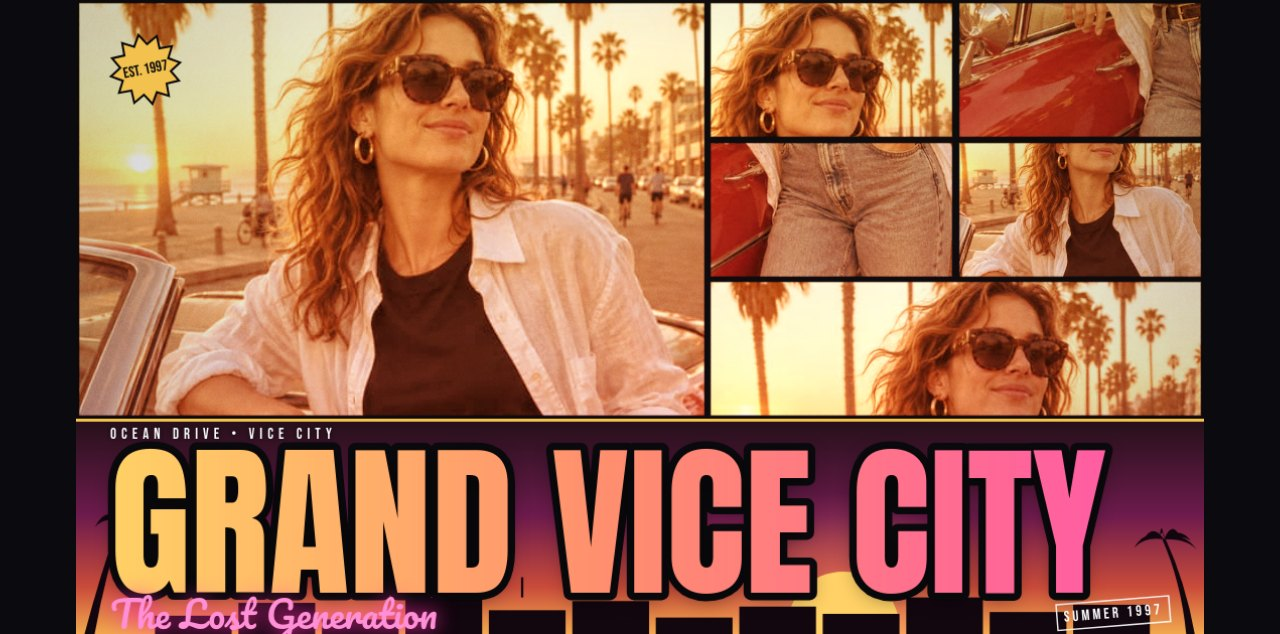
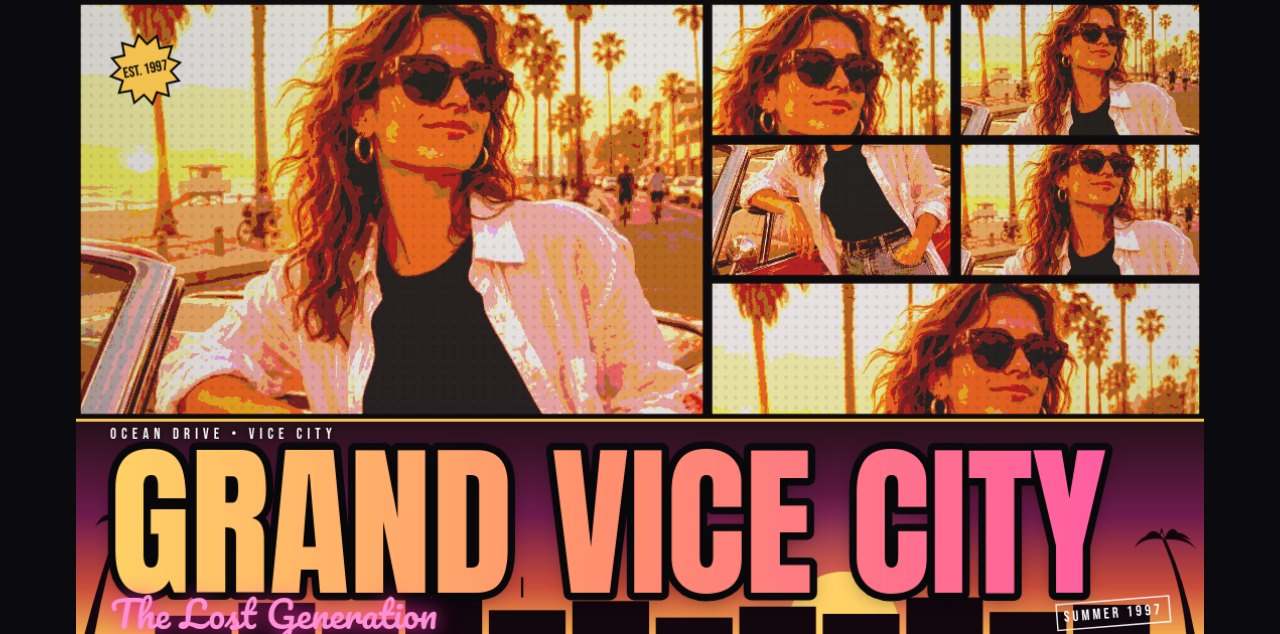
v4: Poster Ink One Subject cover — halftone on the exported cover, flat poster grade, full-scene panels

diff --git a/app/src/presets.js b/app/src/presets.js
@@ -7,20 +7,19 @@
 // summer-1997 is fixed (title is GRAND VICE CITY in the band, no more
 // giant date covering mouths); neon-nights and pier-lights now put a real
 // night photo in the hero panel, so the neon grade matches the hero.
-// v3: `one-subject` is the first preset (and the boot default) — ONE woman,
-// the boulevard heroine, in all six panels, ala #2 SUN HEIST (one man +
-// one Porsche in 5 panels). Same photo, different crops/zooms: hero,
-// face close-up, red-car detail, denim/belt detail, mid figure, wide face strip.
-// No second person anywhere, so the cover reads as one story, one palette.
-// v3 tuning: panel 4 is the denim detail (the palms crop duplicated the
-// face close-up), panel 6's oy keeps her eyes in the wide strip in both
-// landscape and square aspects (oy -0.95 showed only the top of her head).
+// v4: One Subject's grade is now POSTER INK (was golden-vice) — the
+// exported cover is halftone, ala v2's win vs #5, with v3's one-subject
+// story + sunset title band kept. The two detail-crop filler panels are
+// gone: panel 3 is now a wide boulevard scene (palms + street + sky,
+// zoom 1.05, top slice) and panel 4 is the heroine in front of the red
+// car at full width (zoom 1.0, mid-low slice) — all six panels are
+// scenes of the same heroine, no detail crops.
 export const PRESETS = [
   {
     id: 'one-subject',
     name: 'One Subject',
     layout: 'poster-band-six',
-    grade: 'golden-vice',
+    grade: 'poster-ink',
     title: 'GRAND VICE CITY',
     subtitle: 'The Lost Generation',
     location: 'Ocean Drive • Vice City',
@@ -29,9 +28,9 @@ export const PRESETS = [
     photos: [
       { photo: 'boulevard.jpg', oy: -0.65 },
       { photo: 'boulevard.jpg', zoom: 2.0, ox: 0.35, oy: -0.8 },
-      { photo: 'boulevard.jpg', zoom: 1.7, ox: -0.65, oy: 0.85 },
-      { photo: 'boulevard.jpg', zoom: 1.7, ox: 0.8, oy: 1.0 },
-      { photo: 'boulevard.jpg', zoom: 1.25, ox: 0.15, oy: -0.35 },
+      { photo: 'boulevard.jpg', zoom: 1.05, ox: 0.5, oy: -0.7 },
+      { photo: 'boulevard.jpg', zoom: 1.0, ox: -0.5, oy: 0.35 },
+      { photo: 'boulevard.jpg', zoom: 1.25, ox: 0.15, oy: -0.6 },
       { photo: 'boulevard.jpg', zoom: 1.1, ox: -0.3, oy: -0.79 },
     ],
   },

diff --git a/app/src/cover.js b/app/src/cover.js
@@ -30,22 +30,24 @@ let dotTile = null;
 function getDotTile() {
   if (dotTile) return dotTile;
   const c = document.createElement('canvas');
-  c.width = 8;
-  c.height = 8;
+  // v4: coarser dot screen (8px -> 10px tile) — flatter poster feel, less noise.
+  c.width = 10;
+  c.height = 10;
   const g = c.getContext('2d');
   g.fillStyle = '#000000';
   g.beginPath();
-  g.arc(4, 4, 1.6, 0, Math.PI * 2);
+  g.arc(5, 5, 1.9, 0, Math.PI * 2);
   g.fill();
   dotTile = c;
   return c;
 }
 
-/** Quantizes a panel's pixels to a few levels (the Poster Ink treatment). */
-function posterizeRegion(ctx, x, y, w, h) {
+/** Quantizes a panel's pixels to a few levels (the Poster Ink treatment).
+ *  v4: level count comes from the grade (posterLevels) — 3 levels is the
+ *  flat #1 HEATWAVE look, 4 is the noisier v2 look. */
+function posterizeRegion(ctx, x, y, w, h, levels) {
   const img = ctx.getImageData(x, y, w, h);
   const d = img.data;
-  const levels = 4;
   const step = 256 / levels;
   for (let i = 0; i < d.length; i += 4) {
     d[i] = Math.floor(d[i] / step) * step + step / 2;
@@ -135,7 +137,7 @@ export function drawCover(ctx, W, H, state, images) {
       ctx.fillRect(x, y, w, h);
       ctx.restore();
     }
-    if (grade.posterize && img) posterizeRegion(ctx, Math.round(x), Math.round(y), Math.round(w), Math.round(h));
+    if (grade.posterize && img) posterizeRegion(ctx, Math.round(x), Math.round(y), Math.round(w), Math.round(h), grade.posterLevels || 4);
     if (grade.halftone) {
       ctx.globalAlpha = grade.halftoneAlpha || 0.1;
       ctx.globalCompositeOperation = 'multiply';
@@ -175,7 +177,9 @@ export function drawCover(ctx, W, H, state, images) {
   }
 
   // Film grain.
-  const grain = adjust.grain == null ? 0.3 : adjust.grain;
+  // v4: on Poster Ink covers the grain is cut to a quarter — the flat
+  // poster look must not be re-noised by the grain pass (v2's noise).
+  const grain = (adjust.grain == null ? 0.3 : adjust.grain) * (grade.posterize ? 0.25 : 1);
   if (grain > 0.01) {
     ctx.save();
     ctx.globalAlpha = grain * 0.45;

diff --git a/app/src/grades.js b/app/src/grades.js
@@ -53,19 +53,32 @@ export const GRADES = {
     washAlpha: 0.2,
     band: ['#2a2118', '#3a2c1c', '#4a3822'],
   },
+// v4: Poster Ink is now the DEFAULT cover grade (One Subject preset) and
+// is flatter/posterized ala #1 HEATWAVE — halftone dots larger + fainter
+// (alpha 0.13 -> 0.09), film grain cut to a quarter on ink covers (grain
+// is what made v2's halftone read noisy), and a sunset wash (was: none)
+// so daylight-blue panels — pier, beach sky — are pulled FULLY into the
+// sunset palette instead of staying cold. Posterize levels TESTED 3 vs 4:
+// 3 flattened the hero's face to a single orange blob (mouth lost), 4
+// keeps the face readable while the panels still read as one flat poster.
+// Wash tested 0.22 vs 0.34: 0.34 warms the panels further (rooftop sky,
+// beach) while the hero face stays readable; the pier sea itself stays
+// turquoise (its saturation resists a 'color' wash below face-wrecking
+// strength) but is now posterized + halftone-unified with the rest.
   'poster-ink': {
     name: 'Poster Ink',
     blurb: 'Halftone comic ink: posterized colour, ink outline, dot screen.',
-    filter: 'saturate(1.7) contrast(1.42) brightness(1.02)',
+    filter: 'saturate(1.55) contrast(1.35) brightness(1.04)',
     overlay: ['#ffd166', '#ff5da2'],
-    overlayAlpha: 0.08,
+    overlayAlpha: 0.2,
     overlayMode: 'overlay',
     vignette: 0.14,
     posterize: true,
+    posterLevels: 4,
     halftone: true,
-    halftoneAlpha: 0.13,
-    wash: null,
-    washAlpha: 0,
+    halftoneAlpha: 0.09,
+    wash: '#ff9a5c',
+    washAlpha: 0.34,
     band: ['#241019', '#3a1526', '#4a1a2e'],
   },
 };

diff --git a/main.ts b/main.ts
@@ -7,9 +7,10 @@
 // the judge reads, with the vendored make.fun library.
 // v2: the cover uses a dedicated title band + one unified grade per cover;
 // the dossier contract is unchanged (byte-identical across runs).
-// v3: the cover is the One Subject preset (6 panels, one heroine) with a
-// sunset title band (gradient + sun + skyline + palm silhouettes) and a
-// stronger golden-vice wash so daylight-blue panels join the palette;
+// v4: the cover is the One Subject preset (6 panels, one heroine) with
+// POSTER INK as its grade (halftone flat/posterized, sunset wash) + the
+// sunset title band (gradient + sun + skyline + palm silhouettes); the
+// two filler detail crops are replaced by full-scene boulevard crops;
 // the dossier contract is unchanged (byte-identical across runs).
 //
 // Serve it locally with `node serve.ts`, then open http://localhost:8080.
